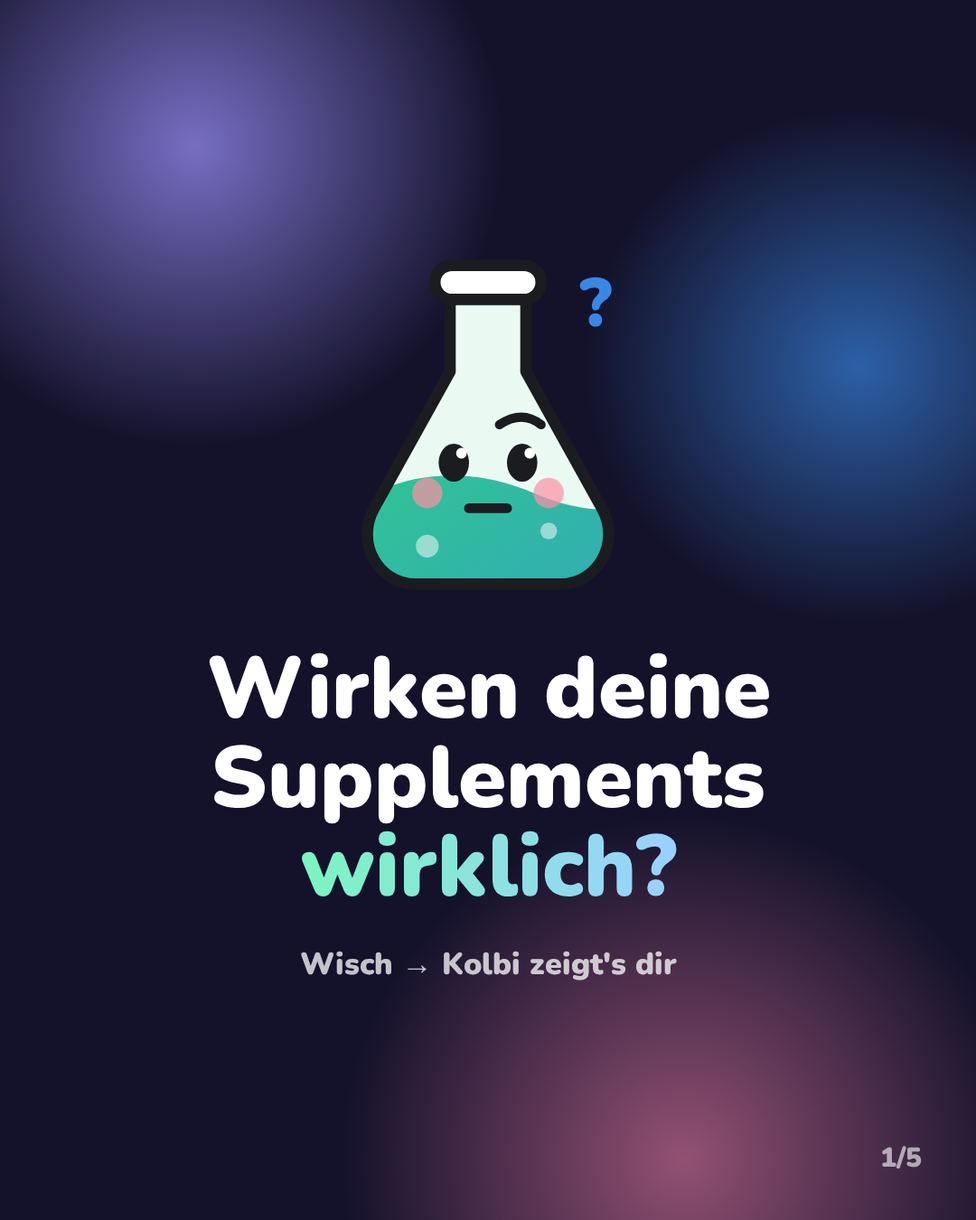
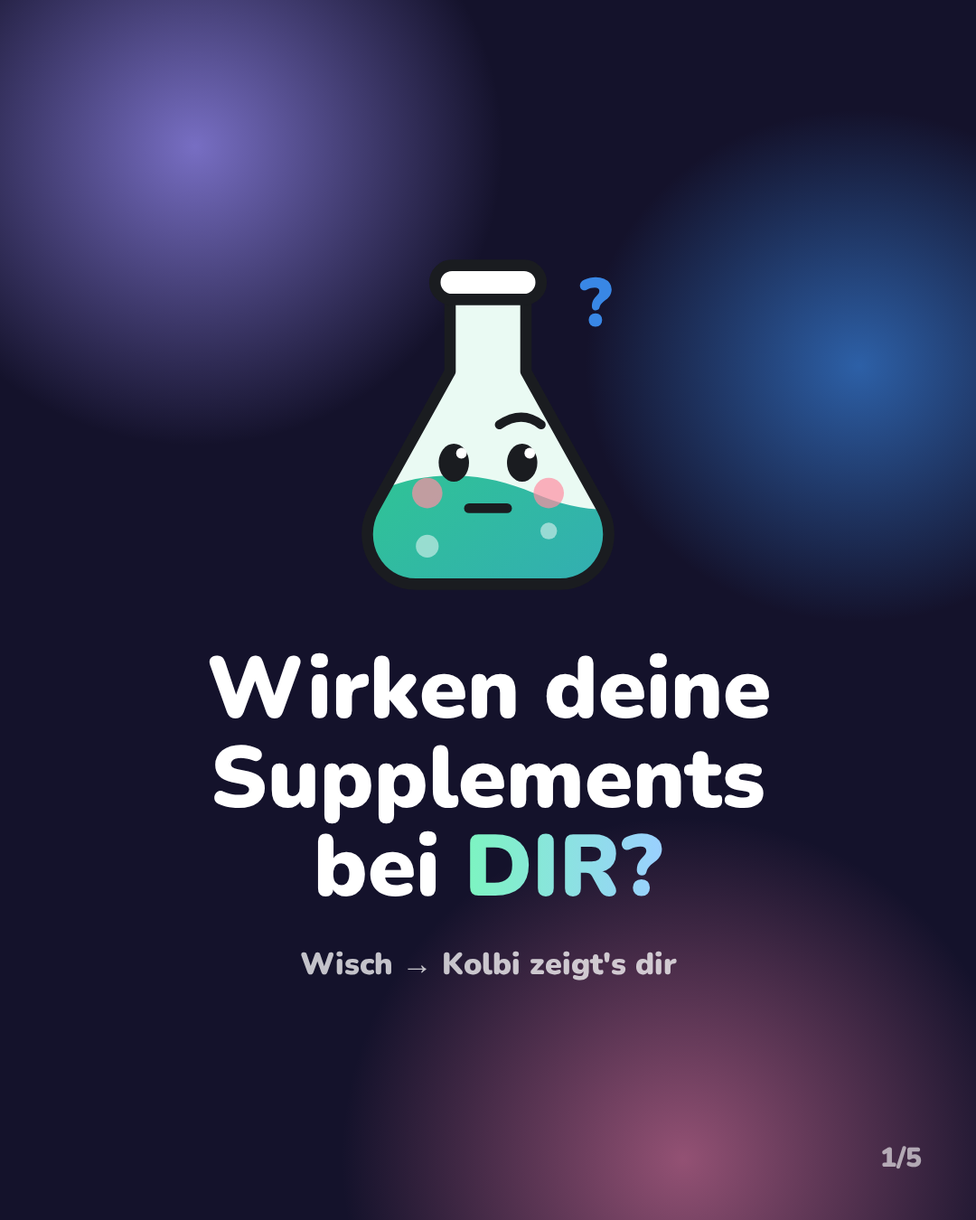
WIP Etappe 1 + Investor-Feedback (Zwischenstand laufender Agenten, nicht deployt)
Claude-Session: https://claude.ai/code/session_019VQXQ4bYchr77qCbUc7QBr

Changed region(s): [[0.3056, 0.6844, 0.7028, 0.7467]]

diff --git a/supplement-lab/marketing/site/index.html b/supplement-lab/marketing/site/index.html
@@ -173,7 +173,7 @@ code{background:var(--card);padding:1px 6px;border-radius:6px}
 
 <section class="wrap section">
   <h2>Was Kolbi für dich macht</h2>
-  <div class="features"><article class="card feat reveal"><span class="emo">🔎</span><h3>Muster-Detektor</h3><p>Schläfst du nach Alkohol schlechter? Bist du montags anders drauf? Kolbi findet es.</p></article><article class="card feat reveal"><span class="emo">⏰</span><h3>Erinnert, ohne zu nerven</h3><p>Gebündelt nach Tageszeit – und Kolbi merkt sich, wann du wirklich einnimmst.</p></article><article class="card feat reveal"><span class="emo">💸</span><h3>Kosten & Sparen</h3><p>Sieh, was dein Stack im Monat kostet und was du sparst, wenn etwas rausfliegt.</p></article><article class="card feat reveal"><span class="emo">🧭</span><h3>Fertige Experimente</h3><p>Schlaf, Fokus, Ruhe, Training: Thema wählen, Kolbi plant den Rest.</p></article><article class="card feat reveal"><span class="emo">⏱</span><h3>Timing-Check</h3><p>Was lieber mit Abstand, was zusammen? Auf einer Tageslinie erklärt.</p></article><article class="card feat reveal"><span class="emo">📦</span><h3>Vorrat im Blick</h3><p>Kolbi sagt dir Bescheid, bevor eine Dose leer ist.</p></article><article class="card feat reveal"><span class="emo">📊</span><h3>Wochen-Story</h3><p>Jeden Sonntag dein Rückblick – zum Durchtippen und Teilen.</p></article><article class="card feat reveal"><span class="emo">📅</span><h3>Kalender-Abo</h3><p>Testende und Ergebnisse automatisch in deinem Kalender.</p></article></div>
+  <div class="features"><article class="card feat reveal"><span class="emo">🔎</span><h3>Muster-Detektor</h3><p>Schläfst du nach Alkohol schlechter? Bist du montags anders drauf? Kolbi schaut in deinen Daten nach.</p></article><article class="card feat reveal"><span class="emo">⏰</span><h3>Erinnert, ohne zu nerven</h3><p>Gebündelt nach Tageszeit – und Kolbi merkt sich, wann du wirklich einnimmst.</p></article><article class="card feat reveal"><span class="emo">💸</span><h3>Kosten & Sparen</h3><p>Sieh, was dein Stack im Monat kostet und was du sparst, wenn etwas rausfliegt.</p></article><article class="card feat reveal"><span class="emo">🧭</span><h3>Fertige Experimente</h3><p>Schlaf, Fokus, Ruhe, Training: Thema wählen, Kolbi plant den Rest.</p></article><article class="card feat reveal"><span class="emo">⏱</span><h3>Timing-Check</h3><p>Was lieber mit Abstand, was zusammen? Auf einer Tageslinie erklärt.</p></article><article class="card feat reveal"><span class="emo">📦</span><h3>Vorrat im Blick</h3><p>Kolbi sagt dir Bescheid, bevor eine Dose leer ist.</p></article><article class="card feat reveal"><span class="emo">📊</span><h3>Wochen-Story</h3><p>Jeden Sonntag dein Rückblick – zum Durchtippen und Teilen.</p></article><article class="card feat reveal"><span class="emo">📅</span><h3>Kalender-Abo</h3><p>Testende und Ergebnisse automatisch in deinem Kalender.</p></article></div>
 </section>
 
 <section class="wrap section">

diff --git a/supplement-lab/marketing/site/en.html b/supplement-lab/marketing/site/en.html
@@ -173,7 +173,7 @@ code{background:var(--card);padding:1px 6px;border-radius:6px}
 
 <section class="wrap section">
   <h2>What Kolbi does for you</h2>
-  <div class="features"><article class="card feat reveal"><span class="emo">🔎</span><h3>Pattern detector</h3><p>Do you sleep worse after drinking? Feel different on Mondays? Kolbi spots it.</p></article><article class="card feat reveal"><span class="emo">⏰</span><h3>Reminders that don't nag</h3><p>Bundled by time of day – and Kolbi learns when you actually take them.</p></article><article class="card feat reveal"><span class="emo">💸</span><h3>Cost & savings</h3><p>See what your stack costs per month and what you save when something gets dropped.</p></article><article class="card feat reveal"><span class="emo">🧭</span><h3>Ready-made experiments</h3><p>Sleep, focus, calm, training: pick a topic, Kolbi plans the rest.</p></article><article class="card feat reveal"><span class="emo">⏱</span><h3>Timing check</h3><p>What's better apart, what together? Explained on a simple day line.</p></article><article class="card feat reveal"><span class="emo">📦</span><h3>Stock at a glance</h3><p>Kolbi lets you know before a bottle runs out.</p></article><article class="card feat reveal"><span class="emo">📊</span><h3>Weekly recap</h3><p>Every Sunday your week as a story – tap through and share.</p></article><article class="card feat reveal"><span class="emo">📅</span><h3>Calendar feed</h3><p>Test ends and results show up in your calendar automatically.</p></article></div>
+  <div class="features"><article class="card feat reveal"><span class="emo">🔎</span><h3>Pattern detector</h3><p>Do you sleep worse after drinking? Feel different on Mondays? Kolbi looks for it in your data.</p></article><article class="card feat reveal"><span class="emo">⏰</span><h3>Reminders that don't nag</h3><p>Bundled by time of day – and Kolbi learns when you actually take them.</p></article><article class="card feat reveal"><span class="emo">💸</span><h3>Cost & savings</h3><p>See what your stack costs per month and what you save when something gets dropped.</p></article><article class="card feat reveal"><span class="emo">🧭</span><h3>Ready-made experiments</h3><p>Sleep, focus, calm, training: pick a topic, Kolbi plans the rest.</p></article><article class="card feat reveal"><span class="emo">⏱</span><h3>Timing check</h3><p>What's better apart, what together? Explained on a simple day line.</p></article><article class="card feat reveal"><span class="emo">📦</span><h3>Stock at a glance</h3><p>Kolbi lets you know before a bottle runs out.</p></article><article class="card feat reveal"><span class="emo">📊</span><h3>Weekly recap</h3><p>Every Sunday your week as a story – tap through and share.</p></article><article class="card feat reveal"><span class="emo">📅</span><h3>Calendar feed</h3><p>Test ends and results show up in your calendar automatically.</p></article></div>
 </section>
 
 <section class="wrap section">

diff --git a/supplement-lab/marketing/brand/BRAND.md b/supplement-lab/marketing/brand/BRAND.md
@@ -1,0 +1,119 @@
+# Kolbi · Marken-Steckbrief (Ton, Werte, No-Gos)
+
+Stand 2. Okt 2026 · gilt für **alle Rollen**: Growth (Posts, Videos, Seiten, Store, Presse), UI (App-Texte),
+künftige Generatoren. Änderungen nur über den CEO. Rechtlich maßgeblich bleibt
+[`../legal/health-claims-check.md`](../legal/health-claims-check.md).
+
+## 1 · Positionierung
+
+| | |
+|---|---|
+| **DE (1 Satz)** | Kolbi ist dein Lab-Coach für Supplement-Selbstversuche: Er testet mit dir eins nach dem anderen, vergleicht mit deinem Normal und zeigt dir, was du behalten kannst – und was du dir sparen kannst. |
+| **EN (1 sentence)** | Kolbi is your lab coach for supplement self-experiments: test one at a time, compare with your own normal and see what's worth keeping – and what you can skip. |
+| **Claim** | „Finde raus, was bei **DIR** wirkt.“ · “Find out what works for **YOU**.” |
+| **Für wen** | Erwachsene, die schon Supplements nehmen (oft mehrere) und nicht wissen, ob sie *bei ihnen* etwas ändern – und die lieber 1 Minute am Tag tippen als Tabellen führen. Deutsch zuerst, Englisch gleichwertig. |
+| **Für wen nicht** | Wer Diagnose, Behandlung oder Dosis-/Produkt-Empfehlungen sucht (→ Ärztin, Arzt, Apotheke). Wer Wundermittel sucht. Kinder und Jugendliche sprechen wir nicht gezielt an. |
+
+## 2 · Versprechen
+
+**Kolbi verkauft das Testen, nicht Supplements.** Wir versprechen nur, was die **App** tut:
+Reset → Test → Aufdecken · eigene Daten statt Bauchgefühl · 1 Minute am Abend · Kosten sehen und sparen ·
+kein Konto, Daten bleiben auf dem Gerät · ehrliches Ergebnis (auch „kein Unterschied“ ist eins).
+
+**Nie:** dass ein Supplement wirkt, hilft oder etwas verbessert · dass ein Ergebnis „bewiesen“ oder „sicher“ ist
+(Selbstversuch ≠ Studie) · Diagnosen, Dosierungen, Kaufempfehlungen · Partnerlinks ohne „Anzeige“ oder nach Provision sortiert.
+
+**Werte:** ehrlich · deine Daten gehören dir · leicht (1 Minute) · spielerisch statt Zahlensalat · neugierig statt
+belehrend · freundlich ohne Druck (verpasster Check-in = kein Drama).
+
+## 3 · Kolbi als Figur
+
+Lebendiger Laborkolben, **dein Lab-Coach** – kein Arzt, kein Guru. Neugierig, warm, ein bisschen verspielt
+(kitzelig beim Anstupsen), ehrlich und bescheiden. Er füllt sich mit deinem Tagesfortschritt, leuchtet ab 3 Tagen
+Serie und wird trüb, wenn ein Check-in fehlt.
+
+**So spricht er:** Ich-Form, **du** (nie Sie), kurze Sätze (ein Gedanke, ≤ ~15 Wörter), Alltagssprache
+(„rausfinden“, „was bringt“), immer ein klarer nächster Schritt. Fachwörter nur mit Erklärung. Ausrufezeichen sparsam.
+EN: “you”, contractions, same length and warmth.
+
+| ✅ Do (echte Sätze aus App/Seite) | EN (aus der App) |
+|---|---|
+| „Ich vergleiche mit deinem Normal.“ | “I compare it with your normal.” |
+| „Eins nach dem anderen, damit man's sieht.“ | “One at a time, so you can actually see it.” |
+| „Ein Tipp auf ein Gesicht reicht. Je regelmäßiger, desto genauer wird meine Auswertung.“ | “One tap on a face is enough. The more regular you are, the more accurate my results get.” |
+| „Das ist auch ein Ergebnis: Du sparst Geld und Pillen.“ | “That's a result too: you save money and pills.” |
+| „Gestern fehlte der Check-in. Ein Check-in heute und ich bin wieder klar.“ | “Yesterday's check-in was missing. One check-in today and I'm clear again.” |
+
+| ❌ Don't | ✅ Stattdessen |
+|---|---|
+| „Magnesium verbessert deinen Schlaf.“ (Wirkversprechen) | „Teste, wie du mit Magnesium schläfst – verglichen mit deinem Normal.“ |
+| „Ashwagandha gegen Stress und Angst.“ (Krankheit/Wirkung) | „Ashwagandha im Selbsttest: Wie ruhig fühlst du dich mit und ohne?“ |
+| „Schon 10.000 zufriedene Nutzer!“ (erfunden) | „[echte Zahl] Leute testen schon mit Kolbi.“ – sonst weglassen |
+| „Hack deinen Körper! Hör auf, Müll zu schlucken.“ (Hype/Angst) | „Welches davon merkst du wirklich? 👀“ |
+| „Du hast gestern versagt.“ / „Sie sollten …“ (Schuld, Sie-Form) | „Ein Check-in heute und ich bin wieder klar.“ |
+
+## 4 · Wortliste (konsistent mit `lib/i18n/en-*.ts`)
+
+| Bevorzugt (DE) | EN | Statt / vermeiden |
+|---|---|---|
+| dein **Normal** | your **normal** (Fachpublikum: *baseline*) | „Baseline“ nur erklärt („Baseline = dein Normal“) |
+| **Reset** (Reset-Tage) | **reset** (reset days) | Detox, Entgiftung, Kur |
+| **Test**, testen, Selbsttest, Selbstversuch, Experiment | **test**, self-test, self-experiment, experiment | Studie, Therapie, Behandlung |
+| **Check-in** (Abend-Check-in), Tagesrunde | **check-in** (evening check-in), daily round | Messung, Symptom-Tagebuch |
+| Aufdecken · **Behalten · Vielleicht · Raus** | Reveal · **Keep · Maybe · Drop** | „Fliegt raus“, bestanden/durchgefallen |
+| Störfaktoren · Muster · Serie · Stack | disruptors · patterns · streak · stack | „Ursache“, „beweist“ |
+| **bei dir**, für dich, „einen Unterschied machen“, „merken“ | **for you**, make a difference, notice | allgemeines „wirkt/hilft“ |
+| Lab-Coach · Lab Pro · Gründer-Pro · Wochen-Story | lab coach · Lab Pro · Founder Pro · weekly recap | Arzt, Experte, Guru |
+
+**„wirken/works“** nur als Frage oder mit „bei dir / for you“ („Finde raus, was bei DIR wirkt“, „Wirkt X bei mir?“) –
+nie als Aussage über ein Supplement.
+
+**Nie:** wirkt/hilft/verbessert/stärkt/steigert/boostet/„gegen …“ · heilt, lindert, beugt vor, Detox ·
+Krankheitsnamen (Depression, Angststörung, Schlafstörung, ADHS, Burnout …) · Biohack-Hype (hack deinen Körper,
+10x, Gamechanger, Wundermittel, Geheimtipp) · Angstmache (Gift, gefährlich, Müll) · Scheinsicherheit (bewiesen,
+wissenschaftlich belegt, klinisch, garantiert, „Ergebnis ist sicher“) · künstliche Fristen (nur echte, z. B. Gründer-Frist 30. Nov).
+EN: works/helps/boosts/improves/fixes/cures, proven, clinically, detox, hack your body, miracle, game-changer, toxic.
+`#biohacking` ist als **Such-Hashtag** ok, die Sprache im Text nicht.
+
+## 5 · Visuelle Regeln
+
+| Farbe | Wert | Einsatz |
+|---|---|---|
+| Nacht-Violett | `#100e24` (Website) · `#14122b` (OG, Karussell, Theme) | Hintergrund Web/Social |
+| Kolbi-Grün | `#2ECC8A` (App hell: `#1EA872`) | Akzent, Buttons, Erfolg |
+| Labor-Blau | `#3987e5` | Verlauf **Grün → Blau 135°** (Buttons, Kolbis Flüssigkeit, `.grad`-Wörter) |
+| Violett · Rosa | `#9085e9` · `#e87ba4` | Hintergrund-Lichter, Rechner-Karte |
+| Mint · Link-Blau | `#7CF5C0` · `#9ad0ff` | Hervorhebung „DIR/YOU“ in Bildern · Links |
+| Text · gedimmt | `#f4f2ff` · `#b4b0d6` | Fließtext Web |
+| Kontur · Warn-Rot | `#1a1c20` · `#e34948` | Kolbis Linien · nur Kolbis „!“ |
+
+- **Schrift:** Nunito (OFL, `brand/fonts/`), Überschriften 900, Text 500–700.
+- **Kein Gesicht:** nur Kolbi – keine Fotos/KI-Bilder von Menschen als „Nutzer“, keine Stockfotos.
+  Kolbi hält nie ein bestimmtes Produkt oder eine Marke.
+- **Kolbi-Stimmungen** (`brand/*.svg`, `brand/png/`): **happy** = Begrüßung, Erklären · **think** = Reset,
+  Auswerten, Fragen, Muster · **alert** = nur echte Hinweise (Nebenwirkung, Vorrat, Timing), nie für Verkauf oder Angst ·
+  **party** = Ergebnis, Meilenstein, Abschluss-CTA · **sleepy** = Pause, Abend. Zustände: *empty* (Start) · *alive*
+  (blinzelt) · *glow* (Serie ≥ 3 Tage) · *murky* (Check-in fehlt – freundlich, nie Schuld) · *shades* (lässig: POV,
+  Gründer) · *nightcap* (Abend, Fußzeile).
+- **Emojis:** 🧪 ist die Signatur. Max. 1 pro Überschrift, ~2–4 pro Caption. Feste Zuordnung: 🔎 Muster ·
+  ⏰ Erinnern · 💸 Kosten · 🧭 Experimente · 📊 Wochen-Story · 🔒 Daten · ⏳ Gründer-Frist. Keine Emojis in Warn-
+  und Rechtshinweisen, keine Medizin-Emojis (💉🩺🏥); 💊 nur neutral als Symbol für „Supplement“.
+- **Beispielzahlen:** Jede nicht echt gemessene Zahl sichtbar **im Bild** als „Beispiel“ / “Example” kennzeichnen;
+  bei Ergebnis-Beispielen lieber „Supplement A/B“ als echte Namen. Echte Zahlen kommen in **[Klammern]** in den
+  Entwurf und werden erst beim Posten eingetragen.
+
+## 6 · Health-Claims in Kürze (voll: `legal/health-claims-check.md`)
+
+- ✅ Über die **App** sprechen: testen, vergleichen, erinnern, sparen, „bei dir“.
+- ✅ Ergebnisse nur als **persönliche, subjektive** Einschätzung („bei mir: +0,6★ Schlaf, eigene Bewertung“).
+- ❌ Keine Wirkversprechen, keine Krankheiten, keine Vorher/Nachher-Heilgeschichten.
+- Pflicht-Hinweis, wo Platz ist: „Kein Medizinprodukt, keine Diagnose. Bei Beschwerden, Schwangerschaft oder
+  Medikamenten vorher mit Ärztin, Arzt oder Apotheke sprechen.“ · Affiliate-Links immer „Anzeige“.
+
+## 7 · Checkliste – vor jedem Post/Text
+
+1. **Wirkung?** Steht irgendwo, dass ein Supplement etwas bewirkt/hilft – oder ein Krankheitsname? → umschreiben auf „bei dir testen, mit deinem Normal vergleichen“.
+2. **Echt?** Jede Zahl, jedes Zitat, jede Erfahrung belegbar – keine erfundenen Nutzer, Bewertungen oder Fakten über den Inhaber? Beispielzahlen als „Beispiel“ markiert?
+3. **Kolbi-Ton?** Du, kurz, warm, ein nächster Schritt – kein Hype, keine Angst, kein Schuldgefühl.
+4. **Begriffe & Look?** Wörter aus der Wortliste, Farben/Nunito, passende Kolbi-Stimmung; DE **und** EN da (EN-Links unter `/en/…`).
+5. **Freigabe?** Kanal-Link (`/<kanal>`), Partnerlink als „Anzeige“, vom CEO freigegeben – erst dann posten.

diff --git a/supplement-lab/marketing/channels/PLAYBOOK.md b/supplement-lab/marketing/channels/PLAYBOOK.md
@@ -40,7 +40,7 @@ time. Not medical advice.“* Profilbild: `../brand/avatar.png`.
 **Aufwärmen (Woche 1–3), 10 Min. pro Tag:** in r/QuantifiedSelf, r/Biohackers, r/FitnessDE, r/sleep echte
 Fragen beantworten (Tracking, Routinen, wie man Dinge sauber ausprobiert). **Ohne Link.** Hilfreiche Muster-Antwort:
 
-> Tip that helped me: change only one thing at a time and rate your day every evening for a week before
+> A simple approach: change only one thing at a time and rate your day every evening for a week before
 > you start, so you know your normal. Otherwise you can't tell what did what.
 
 ### r/FitnessDE (Deutsch) – erst Modmail, dann Post
@@ -51,11 +51,11 @@ Fragen beantworten (Tracking, Routinen, wie man Dinge sauber ausprobiert). **Ohn
 > keine Werbung, keine Daten auf Servern. Darf ich sie einmal vorstellen und um Feedback bitten? Wenn nicht,
 > völlig okay. Danke!
 
-**Post** (Flair z. B. „Ernährung“). Titel: *Ich wusste nie, ob meine Supplements was bringen – also teste ich sie jetzt einzeln (kostenlose App, Feedback gesucht)*
+**Post** (Flair z. B. „Ernährung“). Titel: *Supplements einzeln statt alle gleichzeitig testen – ich hab dafür eine kostenlose App gebaut (Feedback gesucht)*
 > Kennt ihr das: Kreatin, Magnesium, Vitamin D, Ashwagandha … alles gleichzeitig angefangen und danach
 > keine Ahnung, was was gemacht hat?
 >
-> Ich hab mir deshalb eine kleine App gebaut, die das sauber macht:
+> Dafür hab ich eine kleine App gebaut, die das sauber macht:
 > - ein paar Tage **Reset**, damit man sein Normal kennt
 > - dann **ein Supplement nach dem anderen**
 > - abends **1 Minute Check-in** (Schlaf, Energie, Ruhe, Fokus)
@@ -71,7 +71,7 @@ Fragen beantworten (Tracking, Routinen, wie man Dinge sauber ausprobiert). **Ohn
 ### r/QuantifiedSelf (EN) – Feedback-Post *(englisch – Link `/en/…`)*
 
 Titel: *I built a tiny n-of-1 tool to test supplements one at a time – looking for feedback on the method*
-> I kept stacking supplements without knowing what any of them did, so I built a small app around a simple protocol:
+> Many people start several supplements at once and can't tell afterwards what made a difference. So I built a small app around a simple protocol:
 >
 > 1. **Baseline:** a few days of 1-minute evening ratings (sleep, energy, calm, focus)
 > 2. **One change at a time:** each supplement gets its own test window, with optional washout days
@@ -88,9 +88,9 @@ Titel: *I built a tiny n-of-1 tool to test supplements one at a time – looking
 
 ### r/SideProject (EN) *(englisch – Link `/en/…`)*
 
-Titel: *Kolbi – a cute lab flask that helps you find out which supplements actually do something for you*
+Titel: *Kolbi – a cute lab flask that helps you test which supplements make a difference for you*
 > **What:** free web app (installable PWA) for structured self-experiments with supplements.
-> **Why:** I was spending [your amount] €/month on supplements with zero idea what worked.
+> **Why:** [your real reason in one sentence – only if true, otherwise: "Most people start several supplements at once and never know which one made a difference."]
 > **How:** baseline days → one supplement at a time → 1-min evening check-in → compare with your own normal.
 > **Stack/decisions:** React + Vite, local-first (no backend for your data), optional push via Supabase,
 > mascot drawn in SVG and animated in CSS.
@@ -122,16 +122,16 @@ Titel: *[Beta] Kolbi – test your supplements one at a time (free, no account)*
 - **Beschreibung (≤ 260):** `Kolbi is a free, local-first app for personal supplement experiments: a few baseline days, then one supplement at a time with a 1-minute evening check-in. It compares each test with your own normal so you can keep, maybe or drop. No account.`
 - **Galerie:** englische Store-Screenshots (`../store/screenshots-en/`) + Video `../content/videos-en/02-so-gehts.mp4`
 - **Erster Kommentar (Maker):**
-> Hey PH 👋 I built Kolbi because my supplement shelf was costing me [your amount] €/month and I couldn't tell what any
-> of it did. Kolbi turns that into a simple personal experiment: baseline → one change at a time → compare.
+> Hey PH 👋 I built Kolbi because supplement shelves get expensive and it's hard to tell what any single one changes
+> for you. Kolbi turns that into a simple personal experiment: baseline → one change at a time → compare.
 > It's not a study and makes no health claims, just your own data, structured. Everything stays on your device.
 > I'd love to hear: what would you test first?
 
 **Show HN**
 - **Titel:** `Show HN: Kolbi – local-first n-of-1 experiments for your supplements`
 - **Text:**
-> I wanted a dead-simple way to run single-subject experiments on my own supplements: baseline days, one
-> change at a time, a 1-minute evening rating, then compare against my own baseline. Kolbi is a PWA (React +
+> I wanted a dead-simple way to run single-subject experiments on supplements: baseline days, one
+> change at a time, a 1-minute evening rating, then compare against your own baseline. Kolbi is a PWA (React +
 > Vite) that keeps all data in localStorage, with no account. Optional features (push reminders, calendar feed,
 > anonymous aggregate stats with k≥5) run on small Supabase edge functions that never see your entries.
 > Happy to talk about the protocol's limits (no blinding, confounders, regression to the mean) and the design.
@@ -173,7 +173,7 @@ Text für alle:
 Betreff: *Kostenloses Tool für Hörer: Supplements im Selbstversuch testen*
 > Hallo liebes Team der Biohacking-Praxis,
 >
-> ich höre eure Folgen gern und habe eine kleine, kostenlose App gebaut, die zu eurem Praxis-Ansatz passt:
+> [optional, nur wenn wahr: ein Satz, warum du ihren Podcast kennst] Ich habe eine kleine, kostenlose App gebaut, die zu eurem Praxis-Ansatz passt:
 > **Kolbi** hilft, Supplements strukturiert im Selbstversuch zu testen (Baseline, dann eins nach dem anderen,
 > abends 1 Minute bewerten, Vergleich mit dem eigenen Normal). Ohne Konto, die Daten bleiben auf dem Gerät,
 > keine Wirkversprechen.
@@ -208,7 +208,7 @@ Nur hilfreich antworten, **kein Link im Beitrag**. Link nur in Profil oder Signa
 | Kanal | Was | Link |
 |---|---|---|
 | YouTube Shorts | gleiche Videos wie TikTok, Banner `../brand/banner.png` | `/youtube` |
-| Threads / X | Video + 1 Satz, „Build in Public“-Updates (z. B. „Woche 2: 31 Tester, das häufigste Feedback war …“) | `/threads`, `/x` |
+| Threads / X | Video + 1 Satz, „Build in Public“-Updates (z. B. „Woche 2: [echte Zahl] Tester, das häufigste Feedback war …“ – nur echte Zahlen) | `/threads`, `/x` |
 | Pinterest | Karussell-Slides als Pins („Supplements selbst testen in 3 Schritten“) | `/pinterest` |
 | Discord (EN) | Biohacker Lounge, Biohackers HQ: nur im #self-promo-Kanal, Text wie r/alphaandbetausers | `/en/discord` |
 | Flyer/QR | z. B. Aushang im Gym (QR-Code kann ich erzeugen) | `/qr` |

diff --git a/supplement-lab/marketing/content/posting-plan.md b/supplement-lab/marketing/content/posting-plan.md
@@ -65,7 +65,7 @@ englisch mit `VLANG=en`):
 > #supplements #selbstversuch #routine #biohacking #lifehack #appempfehlung
 
 **C · Alles gleichzeitig**
-> Ehrlich: Wer hat schon mal 5 Sachen gleichzeitig angefangen? 🙋 Danach weiß niemand mehr, was was gemacht hat. Eins nach dem anderen – dann siehst du's.
+> Ehrlich: Wer hat schon mal 5 Sachen gleichzeitig angefangen? 🙋 Danach weiß niemand mehr, woher ein Unterschied kommt. Eins nach dem anderen – dann siehst du's.
 > #supplements #pov #relatable #biohacking #selbstexperiment #routine
 
 **D · Was kostet dein Schrank**
@@ -73,11 +73,11 @@ englisch mit `VLANG=en`):
 > #supplements #geldsparen #sparen #biohacking #nahrungsergänzung #finanztipps
 
 **E · Muster**
-> Kolbi hat was entdeckt 🔎 An manchen Tagen schläfst du schlechter – aber warum? Kolbi vergleicht deine Check-ins und zeigt dir Muster, die dir selbst nie auffallen würden. (Beispiel mit erfundenen Werten.)
+> Kolbi hat was entdeckt 🔎 An manchen Tagen schläfst du schlechter – aber warum? Kolbi vergleicht deine Check-ins und zeigt dir Muster, die man sonst leicht übersieht. (Beispiel mit erfundenen Werten.)
 > #schlaf #supplements #selbstoptimierung #biohacking #tracking #appempfehlung
 
 **K · Karussell**
-> Wirken deine Supplements wirklich? 🤔 Wisch durch – Kolbi zeigt dir, wie du es selbst rausfindest. Speichern, falls du später starten willst 📌
+> Wirken deine Supplements bei DIR? 🤔 Wisch durch – Kolbi zeigt dir, wie du es selbst rausfindest. Speichern, falls du später starten willst 📌
 > #supplements #nahrungsergänzung #selbstexperiment #biohacking #gesundheit
 
 ## Regeln (wichtig – Health-Claims, siehe `../legal/health-claims-check.md`)
@@ -90,7 +90,7 @@ englisch mit `VLANG=en`):
 ## Antworten auf Kommentare (Vorlagen)
 
 - „Welches Magnesium ist das beste?“ → *„Das kann ich dir nicht pauschal sagen – genau dafür gibt's Kolbi: teste es bei dir und vergleich mit deinem Normal 🧪“*
-- „Wirkt Ashwagandha?“ → *„Bei manchen ja, bei manchen nicht – Kolbi hilft dir rauszufinden, wie es BEI DIR ist. Bei Medikamenten oder Beschwerden bitte vorher ärztlich abklären 💚“*
+- „Wirkt Ashwagandha?“ → *„Das kann dir niemand pauschal versprechen – Kolbi hilft dir rauszufinden, wie es BEI DIR ist. Bei Medikamenten oder Beschwerden bitte vorher ärztlich abklären 💚“*
 - „Kostet das was?“ → *„In der Beta komplett kostenlos, ohne Konto. Wer bis 30. November startet, behält Pro für immer gratis 🏅 (danach 2,99 €/Monat)“*
 - „iPhone?“ → *„Link in Bio in Safari öffnen → Teilen → Zum Home-Bildschirm. Store-App kommt 🙌“*
 - Kritik/Fehler → bedanken und auf „💬 Feedback“ im Kolbi-Tab verweisen.

diff --git a/supplement-lab/marketing/store/listing.md b/supplement-lab/marketing/store/listing.md
@@ -26,7 +26,7 @@ es selbst herauszufinden – mit deinem eigenen kleinen Experiment.
 • Ein paar Tage Reset: Kolbi lernt dein Normal kennen.
 • Dann ein Supplement nach dem anderen – so siehst du, was welchen Unterschied macht.
 • Jeden Abend 1 Minute Check-in: Schlaf, Energie, Ruhe, Fokus – mit ein paar Taps.
-• Am Ende deckst du dein Ergebnis auf: Behalten, Vielleicht oder Fliegt raus.
+• Am Ende deckst du dein Ergebnis auf: Behalten, Vielleicht oder Raus.
 
 🔎 KOLBI ENTDECKT MUSTER
 Schläfst du an Tagen mit Kaffee am Nachmittag schlechter? Fühlst du dich am Wochenende anders?
@@ -97,7 +97,7 @@ entries and shows you patterns you'd otherwise miss.
 Intakes are bundled by time of day. Kolbi learns when you actually take them and adapts. Forgot
 your check-in? Catch up the next morning.
 
-💸 STOP PAYING FOR WHAT DOESN'T WORK
+💸 STOP PAYING FOR WHAT DOESN'T WORK FOR YOU
 Add prices and see what your stack costs per month – and what you save when something gets
 dropped. Kolbi also tells you before a bottle runs out.
 

diff --git a/supplement-lab/marketing/content/calendar-30.md b/supplement-lab/marketing/content/calendar-30.md
@@ -65,7 +65,7 @@ Krankheiten, Beispielzahlen = „Beispiel“. In **[eckigen Klammern]** = echte 
 ### Tag 5 · Fr 09.10. · Karussell
 - **Plattform:** Instagram (Karussell) + TikTok (Fotomodus) · *kein Shorts*
 - **Datei:** `carousel-1/1.png` … `5.png`
-- **Hook:** „Wirken deine Supplements wirklich?“ (Slide 1)
+- **Hook:** „Wirken deine Supplements bei DIR?“ (Slide 1)
 - **Caption:**
   > Wie findest du raus, ob deine Supplements BEI DIR einen Unterschied machen? 🤔 Wisch durch – Kolbi zeigt dir die Methode: Reset → Testen → Aufdecken. Speichern, falls du später starten willst 📌 Link in Bio
 - **Hashtags:** #supplements #nahrungsergänzung #selbstexperiment #biohacking #routine #speichern
